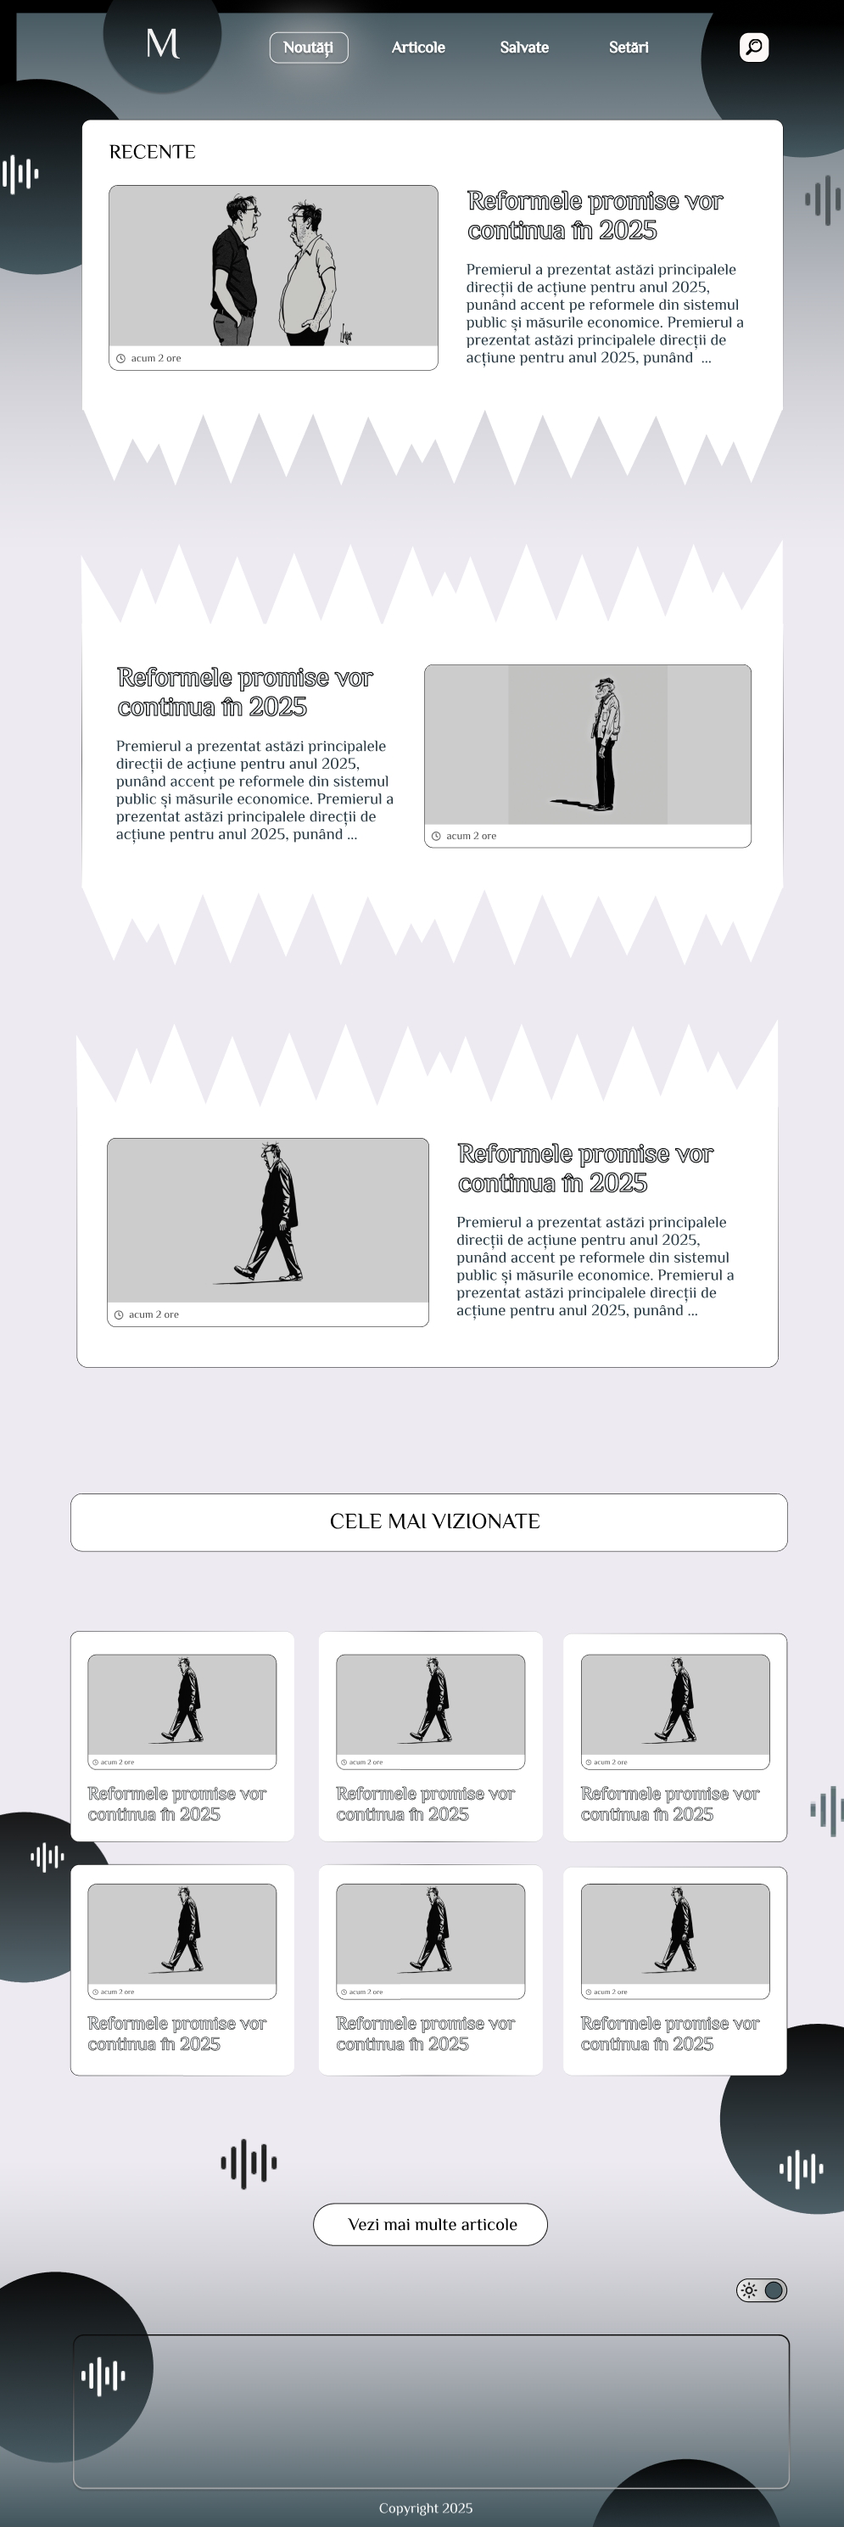
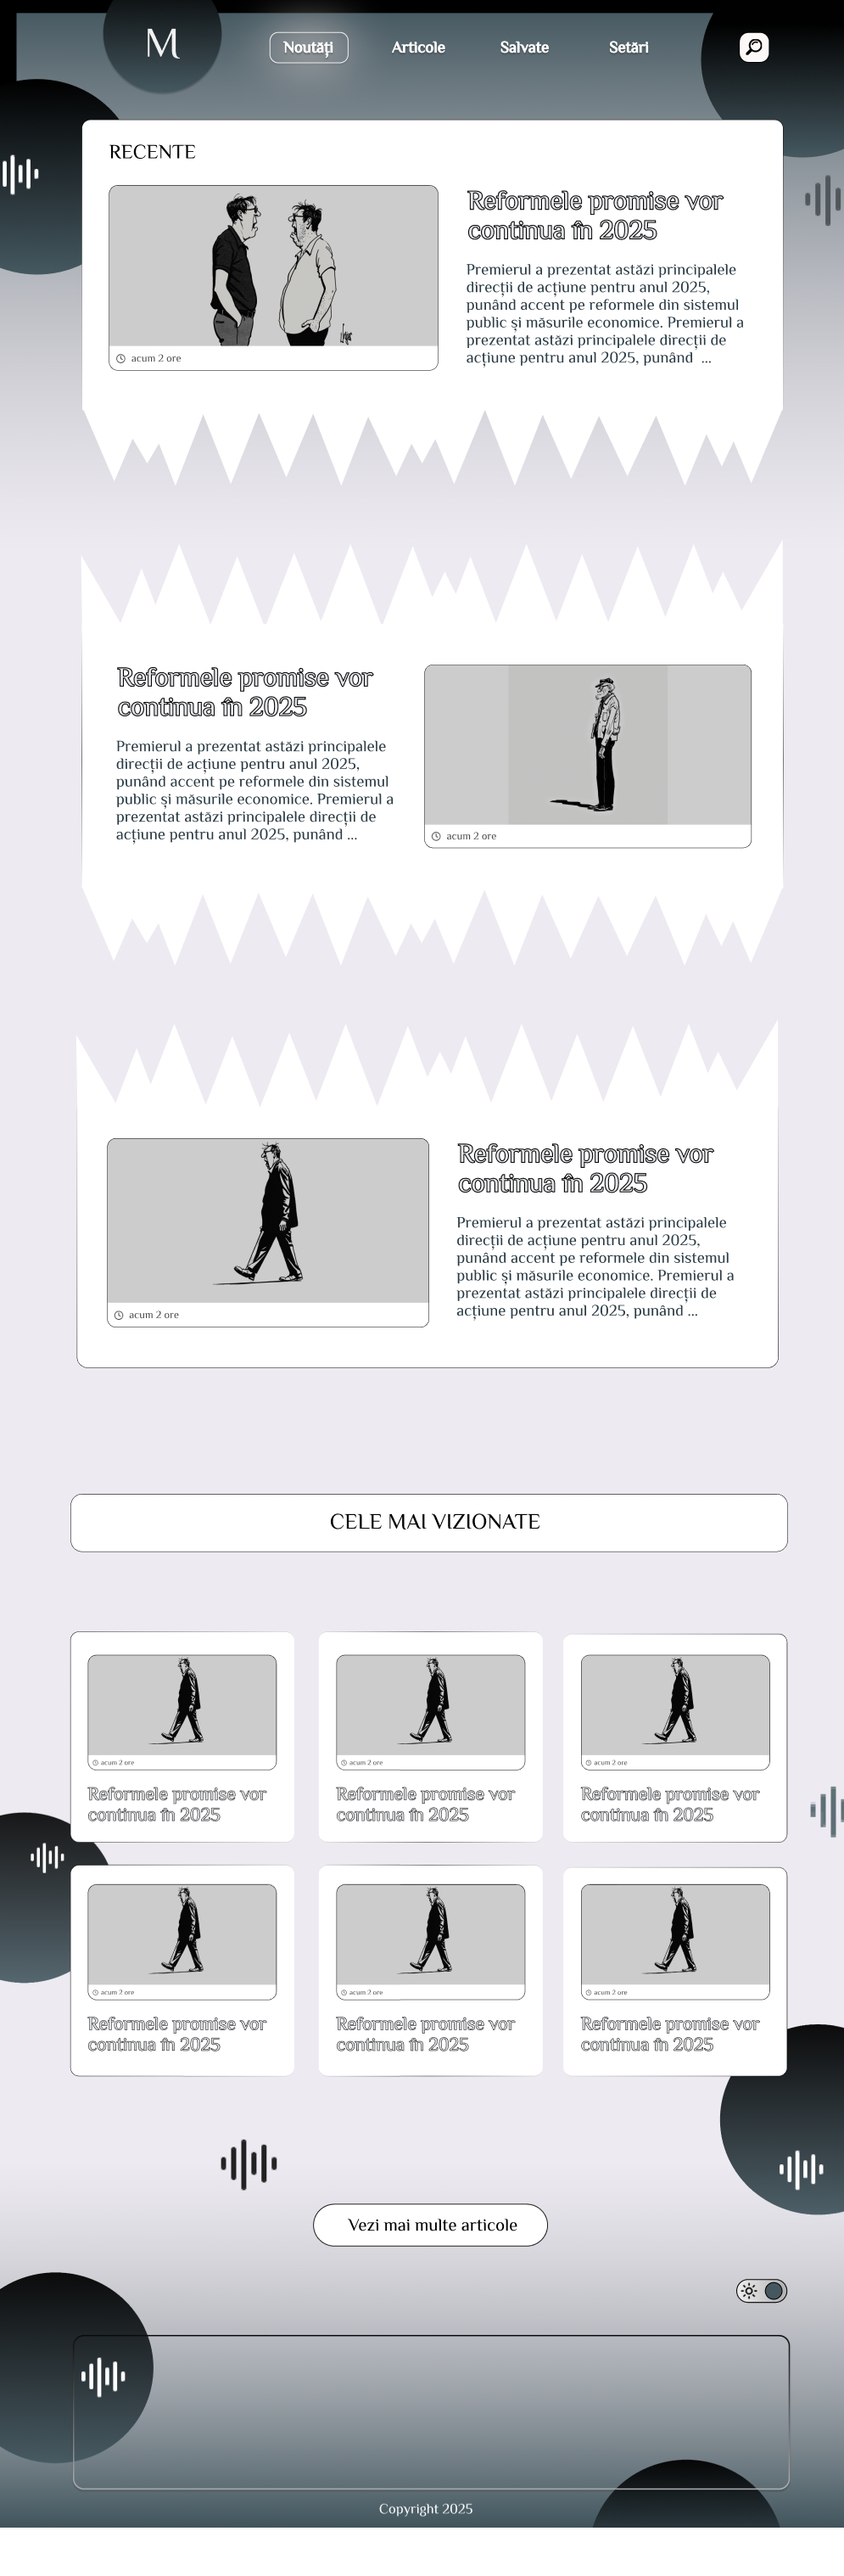
changes

diff --git a/src/app/uiux/page.tsx b/src/app/uiux/page.tsx
@@ -32,7 +32,7 @@ export default function Uiux() {
       ) return;
   
       const container2Height = container2Ref.current.offsetHeight;
-      const fundalHeight = container2Height + 430;
+      const fundalHeight = container2Height + 370;
       const fullHeight = fundalHeight + 450;
   
       fundalRef.current.style.height = `${fundalHeight}px`;
